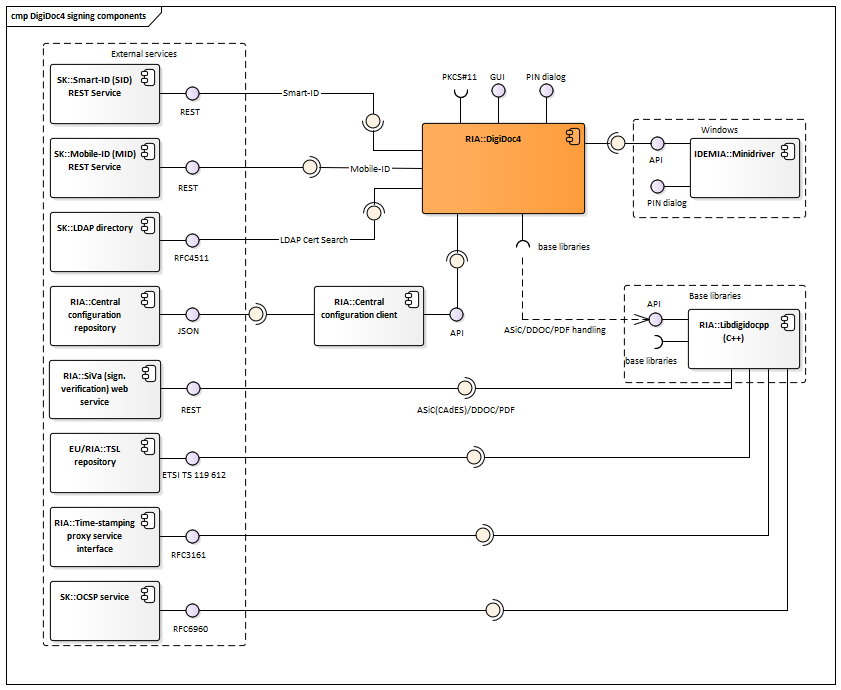
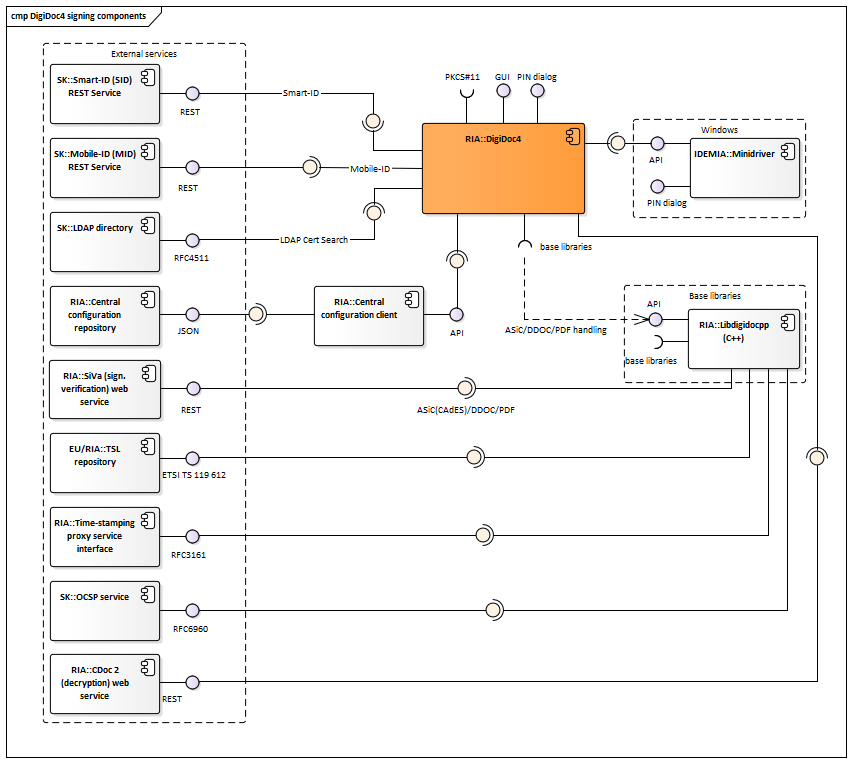
Update site

diff --git a/index.html b/index.html
@@ -127,15 +127,15 @@
                     <div class="col-md-9" role="main">
 
 <h1 id="architecture-of-id-software">ARCHITECTURE OF ID-SOFTWARE</h1>
-<p>Document version: 2.8<br />
-Software version: 24.09<br />
-Last updated: 23.9.2024  </p>
+<p>Document version: 2.9<br />
+Software version: 25.08<br />
+Last updated: 9.10.2025  </p>
 <h1 id="introduction">Introduction</h1>
 <p>The purpose of this document is to describe the architecture of ID-software.</p>
 <p><strong>ID-software</strong> is a collection of software components offering support for PKI-based functionality, i.e. operations with different cryptographic tokens (e.g. eID cards), handling digitally signed documents, file encryption/decryption and signing and authentication in web environment. The ID-software comprises end-user applications, software libraries, web components, drivers for communicating with the cryptographic tokens and other complementary components.</p>
 <p>Main sources for information about ID-software are <a href="https://www.id.ee/en/">www.id.ee</a>, <a href="https://github.com/open-eid">Open-EID GitHub repository</a> and <a href="https://github.com/web-eid">Web-eID GitHub repository</a>.</p>
 <p>This document covers description of ID-software and its components, their deployment in different environments, provided and required interfaces. The document does not include components that have reached the end of their support nor the components that have not yet been released.</p>
-<p>The document is based on the latest released state of the ID-software components. At the time of writing, the latest released version of ID-software is <strong>version 24.09</strong>. Latest version numbers of the various ID-software components are provided at <a href="https://www.id.ee/en/article/information-on-the-latest-software-versions/">https://www.id.ee/en/article/information-on-the-latest-software-versions/</a>.</p>
+<p>The document is based on the latest released state of the ID-software components. At the time of writing, the latest released version of ID-software is <strong>version 25.08</strong>. Latest version numbers of the various ID-software components are provided at <a href="https://www.id.ee/en/article/information-on-the-latest-software-versions/">https://www.id.ee/en/article/information-on-the-latest-software-versions/</a>.</p>
 <p>The document is targeted for:</p>
 <ul>
 <li>Owners/managers of the software;</li>
@@ -148,9 +148,9 @@ Last updated: 23.9.2024  </p>
 <p><strong>Estonian Information System Authority</strong> (RIA, <a href="https://www.ria.ee/en.html">https://www.ria.ee/en.html</a>) is the main owner/manager of the ID-software.  </p>
 <p>The software is being developed and tested by:  </p>
 <ul>
-<li><strong>RaulWalter</strong> (RW, <a href="https://www.raulwalter.com">https://www.raulwalter.com</a>) as the main contractor during 2019-2024;  </li>
-<li><strong>Nortal</strong> (<a href="https://nortal.com">https://nortal.com</a>) during 2019-2024;  </li>
-<li><strong>TTT</strong> (<a href="https://www.testijad.ee">https://www.testijad.ee</a>) during 2019-2024;  </li>
+<li><strong>RaulWalter</strong> (RW, <a href="https://www.raulwalter.com">https://www.raulwalter.com</a>) as the main contractor during 2019-2025;  </li>
+<li><strong>Nortal</strong> (<a href="https://nortal.com">https://nortal.com</a>) during 2019-2025;  </li>
+<li><strong>TTT</strong> (<a href="https://www.testijad.ee">https://www.testijad.ee</a>) during 2019-2025;  </li>
 <li>SK ID Solutions (SK, <a href="https://www.skidsolutions.eu/en">https://www.skidsolutions.eu/en</a>);  </li>
 <li>Aktors (<a href="http://www.aktors.ee/wp/">http://www.aktors.ee/wp/</a>);  </li>
 <li>CGI Estonia (<a href="https://www.cgi.ee/et">https://www.cgi.ee/et</a>).</li>
@@ -225,7 +225,7 @@ The software is distributed open-source (mainly under LGPL/BSD/MIT licence) and 
 <td>LGPL</td>
 </tr>
 <tr>
-<th rowspan="3"><a href="#software-libraries">Software libraries</a></td>
+<th rowspan="4"><a href="#software-libraries">Software libraries</a></td>
 <th>DigiDoc4j (Java)</th>
 <td>yes (2)</td>
 <td>yes (1)</td>
@@ -252,6 +252,17 @@ The software is distributed open-source (mainly under LGPL/BSD/MIT licence) and 
 <td>yes (2)</td>
 <td>yes - validation only (1)</td>
 <td>-</td>
+<td>yes (1)</td>
+<td>-</td>
+<td>-</td>
+<td>RIA</td>
+<td>LGPL</td>
+</tr>
+<tr>
+<th>Libcdoc (C++, .NET)</th>
+<td>-</td>
+<td>-</td>
+<td>yes</td>
 <td>yes (1)</td>
 <td>-</td>
 <td>-</td>
@@ -340,7 +351,7 @@ The software is distributed open-source (mainly under LGPL/BSD/MIT licence) and 
 </tr>
 <tr>
 <td>Handling CDOC documents</td>
-<td>Encrypting and decrypting documents in <a href="https://www.id.ee/wp-content/uploads/2020/02/SK-CDOC-1.0-20120625_EN.pdf">ENCDOC-XML 1.0 (CDOC)</a> also <a href="https://www.ria.ee/sites/default/files/content-editors/EID/cdoc.pdf">CDOC 1.1</a> format.</td>
+<td>Encrypting and decrypting documents in <a href="https://www.id.ee/wp-content/uploads/2020/02/SK-CDOC-1.0-20120625_EN.pdf">ENCDOC-XML 1.0 (CDOC)</a>, <a href="https://www.ria.ee/sites/default/files/content-editors/EID/cdoc.pdf">CDOC 1.1</a> and <a href="https://open-eid.github.io/CDOC2/">CDOC 2.0</a> format.</td>
 </tr>
 <tr>
 <td>Calculating RSA/ECDSA signature</td>
@@ -444,6 +455,11 @@ Note that not all of the external base libraries are included in the component m
 <td>SK</td>
 </tr>
 <tr>
+<td>Decryption service</td>
+<td>Used to fetch Capsules for decrypting CDoc 2.0 document</td>
+<td>RIA</td>
+</tr>
+<tr>
 <td>Minidriver</td>
 <td>Used via CNG interface in Windows environment only. Described in chap. <a href="#_comp_drivers">Drivers</a>.</td>
 <td>IDEMIA</td>
@@ -488,6 +504,7 @@ Note that not all of the external base libraries are included in the component m
 <li><a href="#_MID_REST_service">Mobile-ID (MID) REST service</a></li>
 <li><a href="#_SID_REST_service">Smart-ID (MID) REST service</a></li>
 <li><a href="#_LDAP_directory_interface">LDAP directory interface</a></li>
+<li><a href="#_CDoc_decryption_service">CDoc 2.0 Decryption Service interface</a></li>
 <li>Interfaces with base libraries:<ul>
 <li><a href="#_Libdigidocpp_library’s_interfaces">Libdigidocpp library’s API</a> – for handling documents in supported digital signature formats (ASiC, BDOC, DDOC and PDF)</li>
 <li>External base libraries: Qt6, libldap, openssl</li>
@@ -550,6 +567,11 @@ Note that not all of the external base libraries are included in the component m
 <td>RIA</td>
 </tr>
 <tr>
+<td>Libcdoc</td>
+<td>Described in chap. <a href="#_comp_libraries">Software libraries</a>.</td>
+<td>RIA</td>
+</tr>
+<tr>
 <td>SiVa</td>
 <td>Described in chap. <a href="#_comp_libraries">Software libraries</a>.</td>
 <td>RIA</td>
@@ -568,6 +590,11 @@ Note that not all of the external base libraries are included in the component m
 <td>OCSP service</td>
 <td>Described in chap. <a href="#_comp_libraries">Software libraries</a>.</td>
 <td>SK</td>
+</tr>
+<tr>
+<td>Decryption service</td>
+<td>Used to fetch Capsules for decrypting CDoc 2.0 document</td>
+<td>RIA</td>
 </tr>
 </tbody>
 </table>
@@ -605,6 +632,7 @@ Note that not all of the external base libraries are included in the component m
 <li><a href="#_LDAP_directory_interface">LDAP directory interface</a></li>
 <li>Interfaces with base libraries:<ul>
 <li><a href="#_Libdigidocpp_library’s_interfaces">Libdigidocpp library’s API</a> – for handling documents in supported digital signature formats (ASiC, BDOC, DDOC and PDF)</li>
+<li><a href="#_Libcdoc_library’s_interfaces">Libcdoc library’s API</a> – for handling documents in supported encryption formats (CDoc 1.0/1.1/2.0)</li>
 <li>External base libraries: libldap, openssl</li>
 </ul>
 </li>
@@ -645,8 +673,13 @@ Note that not all of the external base libraries are included in the component m
 <td>RIA</td>
 </tr>
 <tr>
+<td>Libcdoc</td>
+<td>C/C++ library that enables handling documents in CDOC and CDOC2 formats (encrypting/decrypting). Code repository: <a href="https://github.com/open-eid/libcdoc">https://github.com/open-eid/libcdoc</a> Documentation: <a href="https://open-eid.github.io/libcdoc/">https://open-eid.github.io/libcdoc/</a>.</td>
+<td>RIA</td>
+</tr>
+<tr>
 <td>Libdigidocpp</td>
-<td>C++ software library that enables handling documents in BDOC 2.1, ASiC and DIGIDOC-XML 1.3 formats (via SiVa service). Wiki: <a href="https://github.com/open-eid/libdigidocpp/wiki">https://github.com/open-eid/libdigidocpp/wiki</a> Code repository: <a href="https://github.com/open-eid/libdigidocpp">https://github.com/open-eid/libdigidocpp</a> Documentation: <a href="http://open-eid.github.io/libdigidocpp">http://open-eid.github.io/libdigidocpp</a>.</td>
+<td>C++ library that enables handling documents in BDOC 2.1, ASiC and DIGIDOC-XML 1.3 formats (via SiVa service). Wiki: <a href="https://github.com/open-eid/libdigidocpp/wiki">https://github.com/open-eid/libdigidocpp/wiki</a> Code repository: <a href="https://github.com/open-eid/libdigidocpp">https://github.com/open-eid/libdigidocpp</a> Documentation: <a href="http://open-eid.github.io/libdigidocpp">http://open-eid.github.io/libdigidocpp</a>.</td>
 <td>RIA</td>
 </tr>
 <tr>
@@ -754,6 +787,42 @@ Note that not all of the external base libraries are included in the component m
 <p>Required:</p>
 <ul>
 <li>CDoc4j API: see chap. <a href="#_CDoc4j_library’s_interfaces">CDoc4j library’s interfaces</a></li>
+</ul>
+<p><a name="_Libcdoc_library’s_interfaces"></a></p>
+<h3 id="libcdoc-librarys-interfaces">Libcdoc library’s interfaces</h3>
+<p>Provided:</p>
+<ul>
+<li>Libcdoc API<ul>
+<li>User: DigiDoc4, RIA DigiDoc, Libcdoc utility program</li>
+<li>Accessible with: C/C++</li>
+</ul>
+</li>
+</ul>
+<p>Required:</p>
+<ul>
+<li>Interfaces with base libraries:<ul>
+<li>OpenSSL, libxml2</li>
+</ul>
+</li>
+<li>Interfaces with cryptographic token’s drivers (described in chap. <a href="#_comp_drivers">Drivers</a>)<ul>
+<li>CNG interface</li>
+<li>PKCS#11 interface</li>
+<li>PKCS#12 interface</li>
+</ul>
+</li>
+</ul>
+<h3 id="libcdoc-utility-programs-interfaces">libcdoc utility program’s interfaces</h3>
+<p>Provided:</p>
+<ul>
+<li><a href="https://github.com/open-eid/libcdoc">libcdoc utility program’s interface</a><ul>
+<li>User: server application, end-user application, end-user</li>
+<li>Accessible with: command line</li>
+</ul>
+</li>
+</ul>
+<p>Required:</p>
+<ul>
+<li>Libcdoc API: see chap. <a href="#_Libcdoc_library’s_interfaces">Libcdoc library’s interfaces</a></li>
 </ul>
 <p><a name="_Libdigidocpp_library’s_interfaces"></a></p>
 <h3 id="libdigidocpp-librarys-interfaces">Libdigidocpp library’s interfaces</h3>
@@ -1387,6 +1456,14 @@ Note that not all of the external base libraries are included in the component m
 <li>Accessible from: <a href="https://siva.eesti.ee/V3/validate">https://siva.eesti.ee/V3/validate</a></li>
 <li>Documentation: <a href="http://open-eid.github.io/SiVa/">http://open-eid.github.io/SiVa/</a></li>
 </ul>
+<p><a name="_CDoc_decryption_service"></a></p>
+<h4 id="cdoc-20-decryption-service-interface">CDoc 2.0 Decryption Service interface</h4>
+<ul>
+<li>User: DigiDoc4, Libcdoc (RIA DigiDoc)</li>
+<li>Accessible with: HTTPS protocol</li>
+<li>Accessible from: <a href="https://cdoc2.id.ee">https://cdoc2.id.ee</a></li>
+<li>Documentation: <a href="https://open-eid.github.io/CDOC2/">https://open-eid.github.io/CDOC2/</a></li>
+</ul>
 <h1 id="deployment-model">Deployment model</h1>
 <p>The following subchapters describe physical deployment of ID-software components in collaboration with external components that were depicted in chap. <a href="#component-model">Component model</a> in case of the most common use cases.</p>
 <h2 id="signing-in-web-browser">Signing in web browser</h2>
@@ -1507,5 +1584,5 @@ Note that not all of the external base libraries are included in the component m
 
 <!--
 MkDocs version : 1.6.1
-Build Date UTC : 2024-10-08 04:23:03.826864+00:00
+Build Date UTC : 2025-10-10 07:47:12.132632+00:00
 -->
